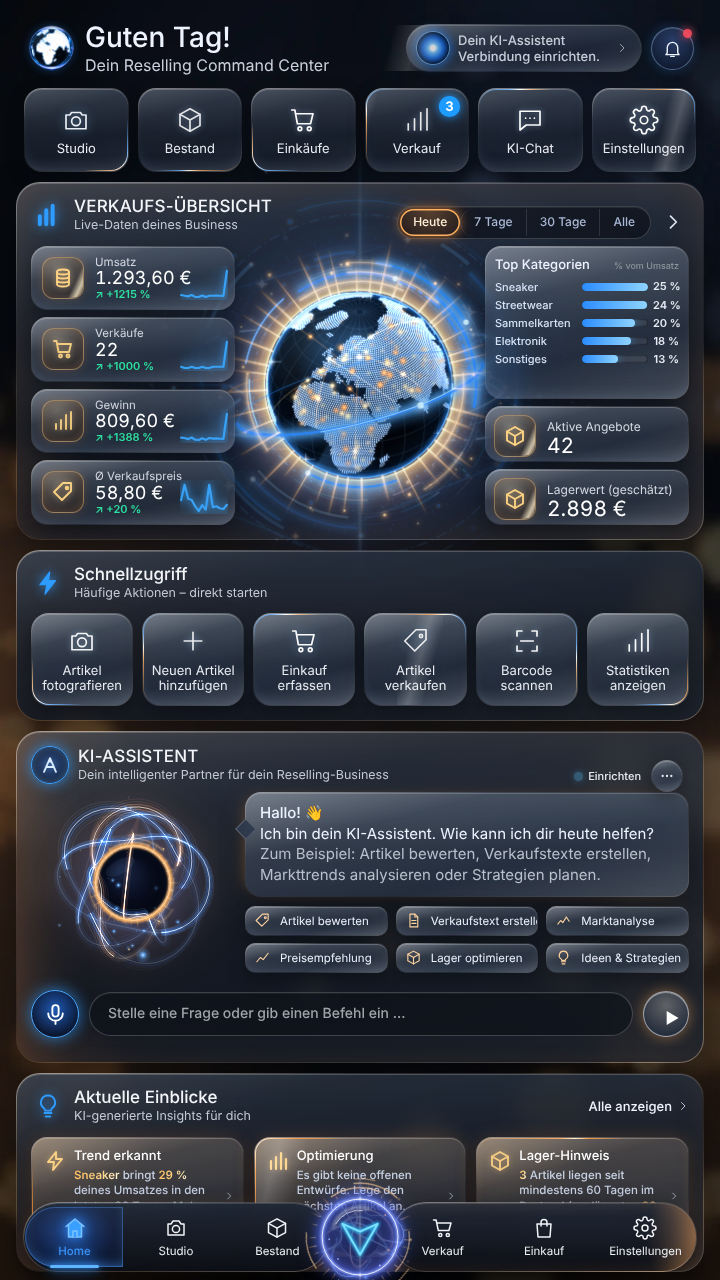
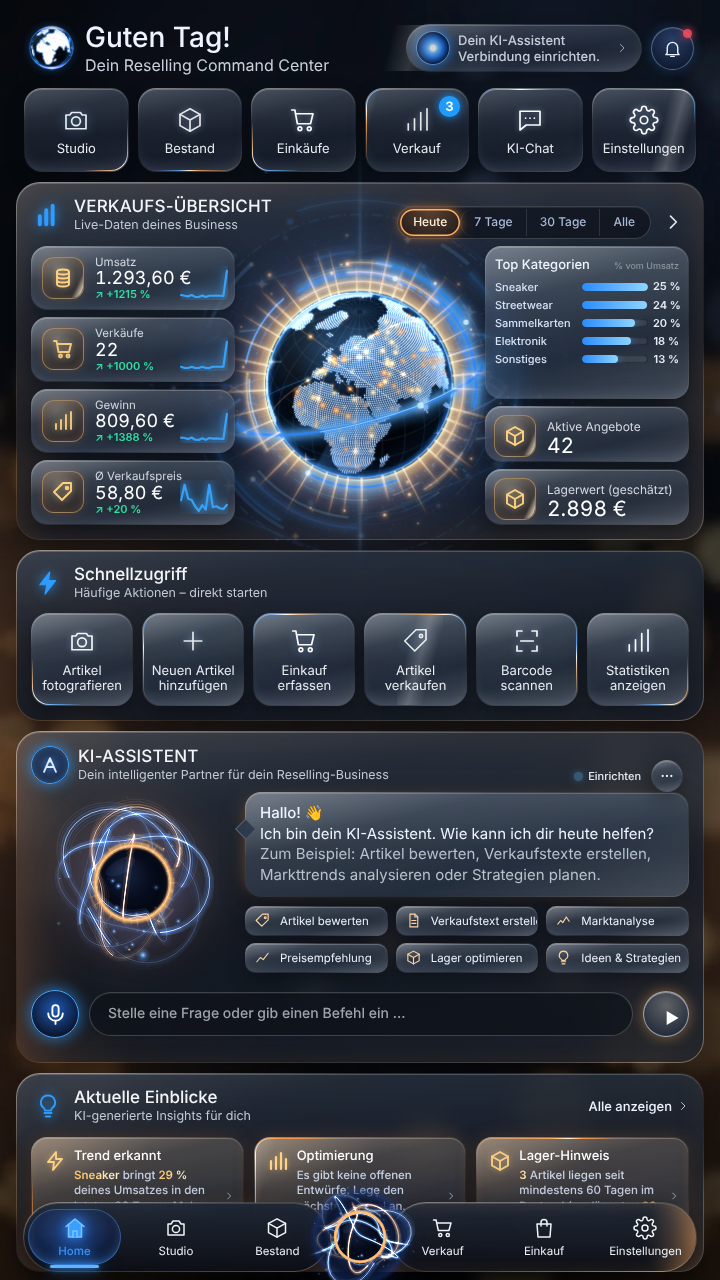
Menü: Home-Fläche rundum oval, KI-Knopf als Energiekugel wie der KI-Assistent
Claude-Session: https://claude.ai/code/session_0194bcZ5PbUBuV3hzmwdGD96

diff --git a/public/theme.css b/public/theme.css
@@ -935,3 +935,16 @@ body:has(#home:not(.hidden))::before { background:none !important; display:none 
 .v11-q.red .ic { color:#fff !important; }
 @media (prefers-reduced-motion: reduce) { .v11-pill { animation:none; } }
 .v11-m .lbl { font-size:11.5px !important; text-overflow:clip !important; overflow:visible !important; }
+
+/* Menü: alle Leuchtflächen gleichmäßig oval */
+#bottomnav.lux-bottomnav button:not(.orb)::before, #bottomnav.lux-bottomnav #navHome::before,
+#bottomnav.lux-bottomnav button:not(.orb):not(:first-child)::before { inset:3px 4px !important; border-radius:999px !important; }
+/* Menümitte: Energieball wie beim KI-Assistenten */
+#bottomnav.lux-bottomnav .orb svg.cc-navorb { display:none !important; }
+#bottomnav.lux-bottomnav .orb .cc-nav-plasma { width:132px !important; height:132px !important; opacity:1 !important; z-index:1; }
+#bottomnav.lux-bottomnav .orb .cc-gold-nav { width:132px !important; height:132px !important; opacity:1 !important; z-index:2; }
+#bottomnav.lux-bottomnav .orb::after { content:'' !important; display:block !important; position:absolute; left:50%; top:50%; width:58px; height:58px; transform:translate(-50%,-50%);
+  border-radius:50%; z-index:0; pointer-events:none; background:radial-gradient(circle, rgba(61,155,255,.35), transparent 70%); }
+#bottomnav.lux-bottomnav .orb.cc-tap .cc-nav-plasma, #bottomnav.lux-bottomnav .orb.selected .cc-nav-plasma { filter:brightness(1.3); }
+#bottomnav.lux-bottomnav .orb::after { width:100px !important; height:100px !important; background:radial-gradient(circle, rgba(8,12,24,.96) 0 52%, rgba(20,50,120,.45) 64%, transparent 72%) !important; }
+#bottomnav.lux-bottomnav .orb .cc-gold-nav .cc-gold-rim { opacity:.55; }

diff --git a/public/fx.js b/public/fx.js
@@ -469,7 +469,7 @@
   function setupGoldElsewhere() {
     var bot = doc.querySelector('.v15-bot-frame'); if (bot && !bot.querySelector('.cc-globe-gold')) goldField(bot, { R: 18.5, rays: 32, len0: 2.5, len1: 6, w0: .35, w1: .55, sparks: 14, sparkR: .8, arcW: .7, rim: true, cls: 'cc-gold-soft', seed: 21 });
     var chat = doc.getElementById('ccChatBot'); if (chat && !chat.querySelector('.cc-globe-gold')) goldField(chat, { R: 18.5, rays: 32, len0: 2.5, len1: 6, w0: .35, w1: .55, sparks: 14, sparkR: .8, arcW: .7, rim: true, cls: 'cc-gold-soft', seed: 27 });
-    var nav = doc.querySelector('#bottomnav .orb'); if (nav && !nav.querySelector('.cc-globe-gold')) goldField(nav, { R: 34, rays: 30, len0: 4, len1: 9, w0: .5, w1: .8, sparks: 14, sparkR: 1.6, arcW: 1.6, cls: 'cc-gold-nav', seed: 31 });
+    var nav = doc.querySelector('#bottomnav .orb'); if (nav && !nav.querySelector('.cc-globe-gold')) goldField(nav, { R: 18.5, rays: 28, len0: 2.5, len1: 6, w0: .45, w1: .7, sparks: 10, sparkR: 1.2, arcW: .9, rim: true, cls: 'cc-gold-nav', seed: 31 });
   }
 
   function setupAvatar() {
@@ -833,7 +833,7 @@
 
   function setupNavCore() {
     var btn = doc.querySelector('#bottomnav .orb'); if (!btn || btn.querySelector('.cc-navorb')) return;
-    btn.innerHTML = ''; var pl = plasmaInto(btn, { seed: 19, scale: .95 }); pl.c.classList.add('cc-nav-plasma'); buildNavOrb(btn);
+    btn.innerHTML = ''; var pl = plasmaInto(btn, { seed: 19, scale: 1 }); pl.c.classList.add('cc-nav-plasma'); buildNavOrb(btn);
   }
 
   /* Farbige Lichter hinter dem Glas: weiche, langsam treibende Lichtflecken */

diff --git a/public/sw.js b/public/sw.js
@@ -1,4 +1,4 @@
-const CACHE='rv-studio-v20-4';
+const CACHE='rv-studio-v20-5';
 const FILES=['/','/index.html','/app.css','/dashboard.css','/fx.css','/ref.css','/theme.css','/stock.css','/pages.css','/perf.css','/app.js','/dashboard.js','/fx.js','/demo.js',
   '/vendor/jszip.min.js','/fonts/command-sans-regular.otf','/fonts/command-sans-bold.otf',
   '/rv-logo.jpg','/rv-ai-mascot.png','/rv-robot-premium.png','/rv-white.png',
